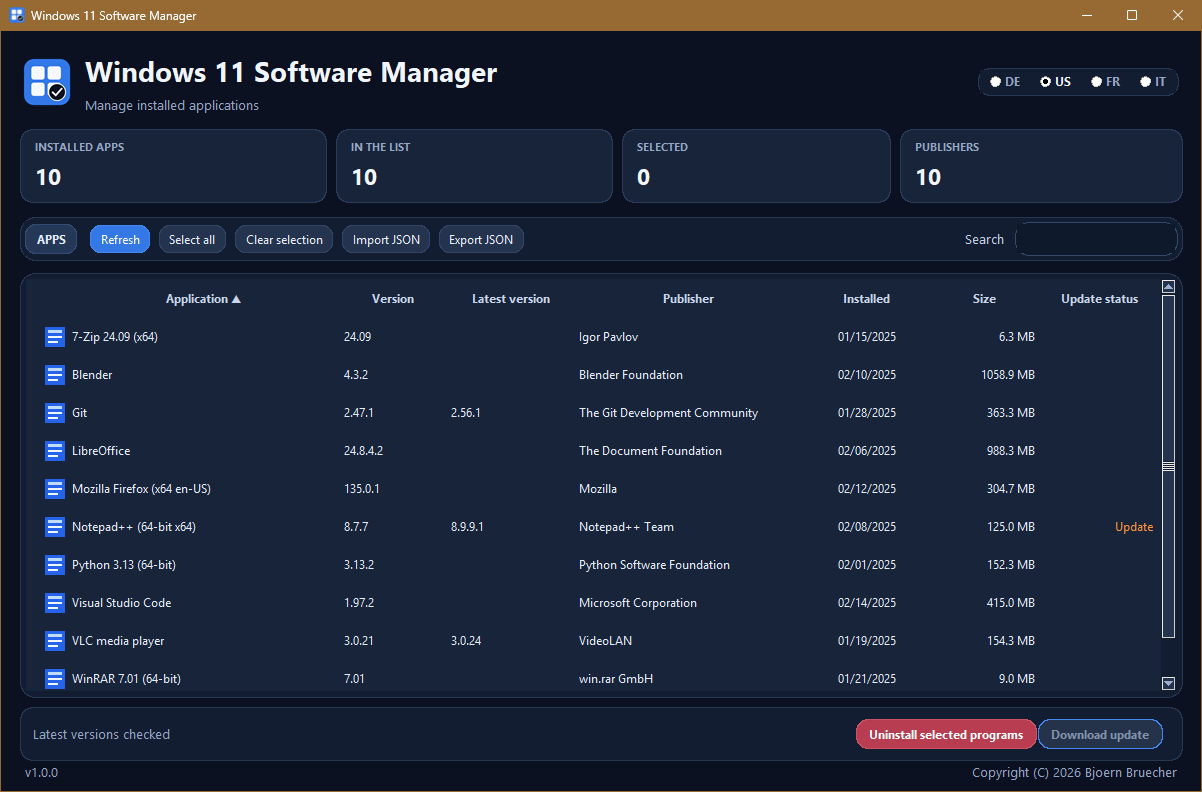
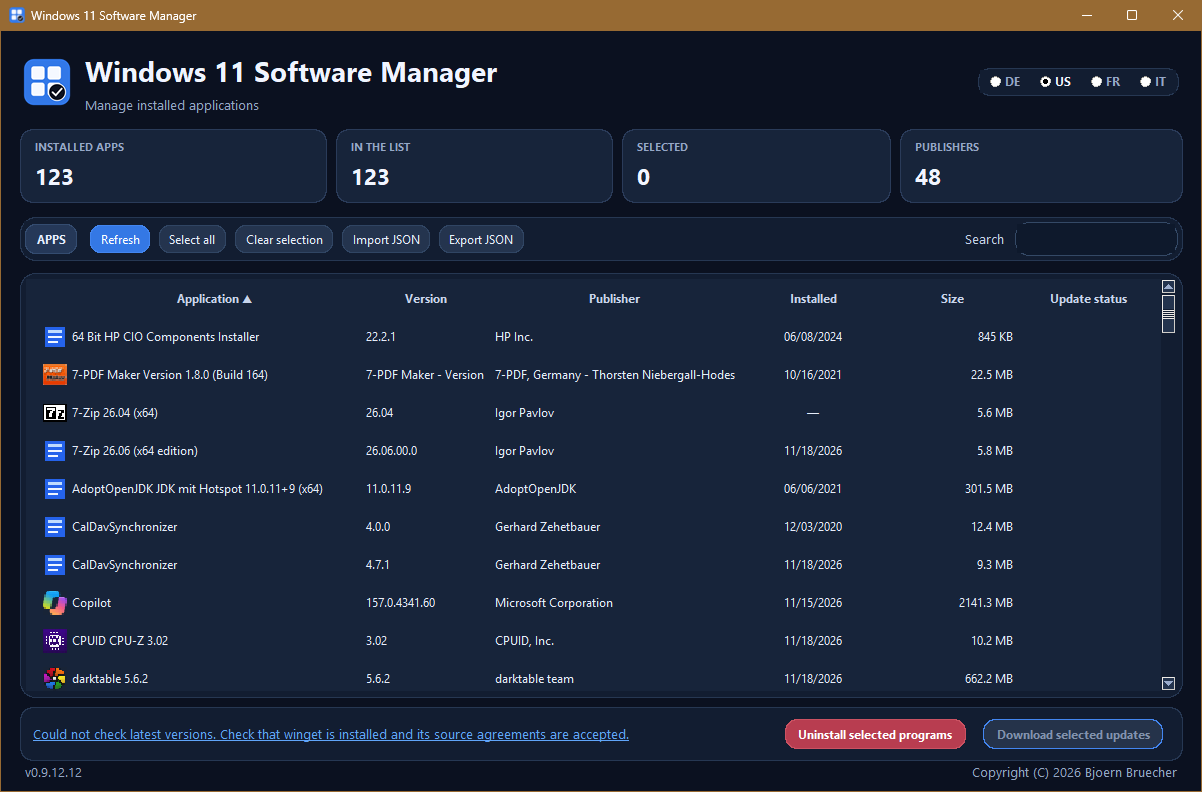
Fix version lookup feedback and update README

diff --git a/tests/test_software_manager.py b/tests/test_software_manager.py
@@ -14,6 +14,54 @@ from src.software_manager import (
 class SoftwareManagerTests(unittest.TestCase):
     """Verify troubleshooting guidance for winget lookup failures."""
 
+    @patch("src.software_manager.get_download_url")
+    @patch("src.software_manager.get_latest_version_details")
+    def test_versions_are_dispatched_before_download_link_lookups(
+        self, get_versions, get_download_url
+    ):
+        """Show available versions without waiting for installer URLs."""
+        programs = [{"name": "Example App"}]
+        scheduled = []
+        manager = SoftwareManager.__new__(SoftwareManager)
+        manager.root = SimpleNamespace(
+            after=lambda delay, callback, *args: scheduled.append(args)
+        )
+        get_versions.return_value = (["2.0"], ["Example.App"], [True])
+
+        def find_download_url(*_args):
+            self.assertEqual(len(scheduled), 1)
+            return "https://example.com/installer.exe"
+
+        get_download_url.side_effect = find_download_url
+
+        manager._latest_version_worker(  # pylint: disable=protected-access
+            programs, 3
+        )
+
+        self.assertEqual(len(scheduled), 2)
+        self.assertEqual(scheduled[0][2].versions, ["2.0"])
+        self.assertEqual(scheduled[0][2].download_urls, [""])
+        self.assertFalse(scheduled[0][3])
+        self.assertEqual(scheduled[1][2].download_urls, [
+            "https://example.com/installer.exe"
+        ])
+
+    @patch("src.software_manager.get_latest_version_details")
+    def test_unexpected_lookup_error_is_reported_to_ui(self, get_versions):
+        """Dispatch a failure result instead of leaving the status checking."""
+        programs = []
+        manager = SoftwareManager.__new__(SoftwareManager)
+        manager.root = Mock()
+        get_versions.side_effect = RuntimeError("unexpected failure")
+
+        with self.assertLogs("root", level="ERROR"):
+            manager._latest_version_worker(  # pylint: disable=protected-access
+                programs, 3
+            )
+
+        manager.root.after.assert_called_once()
+        self.assertIsNone(manager.root.after.call_args.args[4].versions)
+
     def test_failed_lookup_exposes_troubleshooting_link(self):
         """Expose the README link when latest-version lookup fails."""
         programs = []

diff --git a/src/software_manager.py b/src/software_manager.py
@@ -191,9 +191,29 @@ class SoftwareManager:
             lookup = LatestVersionLookup(
                 None, None, None, None, 0
             )
+        except Exception:
+            logging.exception("Could not check latest program versions.")
+            lookup = LatestVersionLookup(
+                None, None, None, None, 0
+            )
         else:
             download_urls = [""] * len(programs)
             unavailable_links = 0
+            lookup = LatestVersionLookup(
+                versions,
+                package_ids,
+                updates,
+                list(download_urls),
+                0
+            )
+            self.root.after(
+                0,
+                self._finish_latest_version_lookup,
+                programs,
+                generation,
+                lookup,
+                False
+            )
             for index, (package_id, version, update_available) in enumerate(
                 zip(package_ids, versions, updates)
             ):
@@ -212,6 +232,13 @@ class SoftwareManager:
                         package_id,
                         version,
                         exc
+                    )
+                    unavailable_links += 1
+                except Exception:
+                    logging.exception(
+                        "Unexpected error getting the download link for %s %s.",
+                        package_id,
+                        version
                     )
                     unavailable_links += 1
             lookup = LatestVersionLookup(
@@ -233,7 +260,8 @@ class SoftwareManager:
         self,
         programs: List[Dict[str, Any]],
         generation: int,
-        lookup: LatestVersionLookup
+        lookup: LatestVersionLookup,
+        links_complete: bool = True
     ) -> None:
         """Apply version data only if it still belongs to the shown list."""
         if (
@@ -253,6 +281,8 @@ class SoftwareManager:
             updates=lookup.updates,
             download_urls=lookup.download_urls
         )
+        if not links_complete:
+            return
         if lookup.unavailable_links:
             self.view.set_status(
                 "status_download_links_unavailable",

diff --git a/README.md b/README.md
@@ -124,6 +124,7 @@ CLI (`gh`), and an authenticated GitHub CLI session.
 
 ## Usage notes
 
+- Create a current backup of your system before using this program, especially before uninstalling software.
 - The application uses the Windows registry and the uninstall strings of installed applications.
 - On Windows startup, the interface selects the supported language matching the first language in the user's Windows language list. If it is unsupported or unavailable, English (US) is selected; the radio buttons can be used to change it.
 - Version status uses the configured winget sources and exact application-name matching. Matching programs at their latest version show a green **Latest** indicator; programs with an available update show an orange, clickable **↑ latest-version** value in the table and can also be opened with **Download selected updates**. Unmatched programs remain blank. Version lookup runs in the background, and installed programs still load if winget or its sources are unavailable. Winget source agreements must already be accepted; the application does not accept them automatically.
